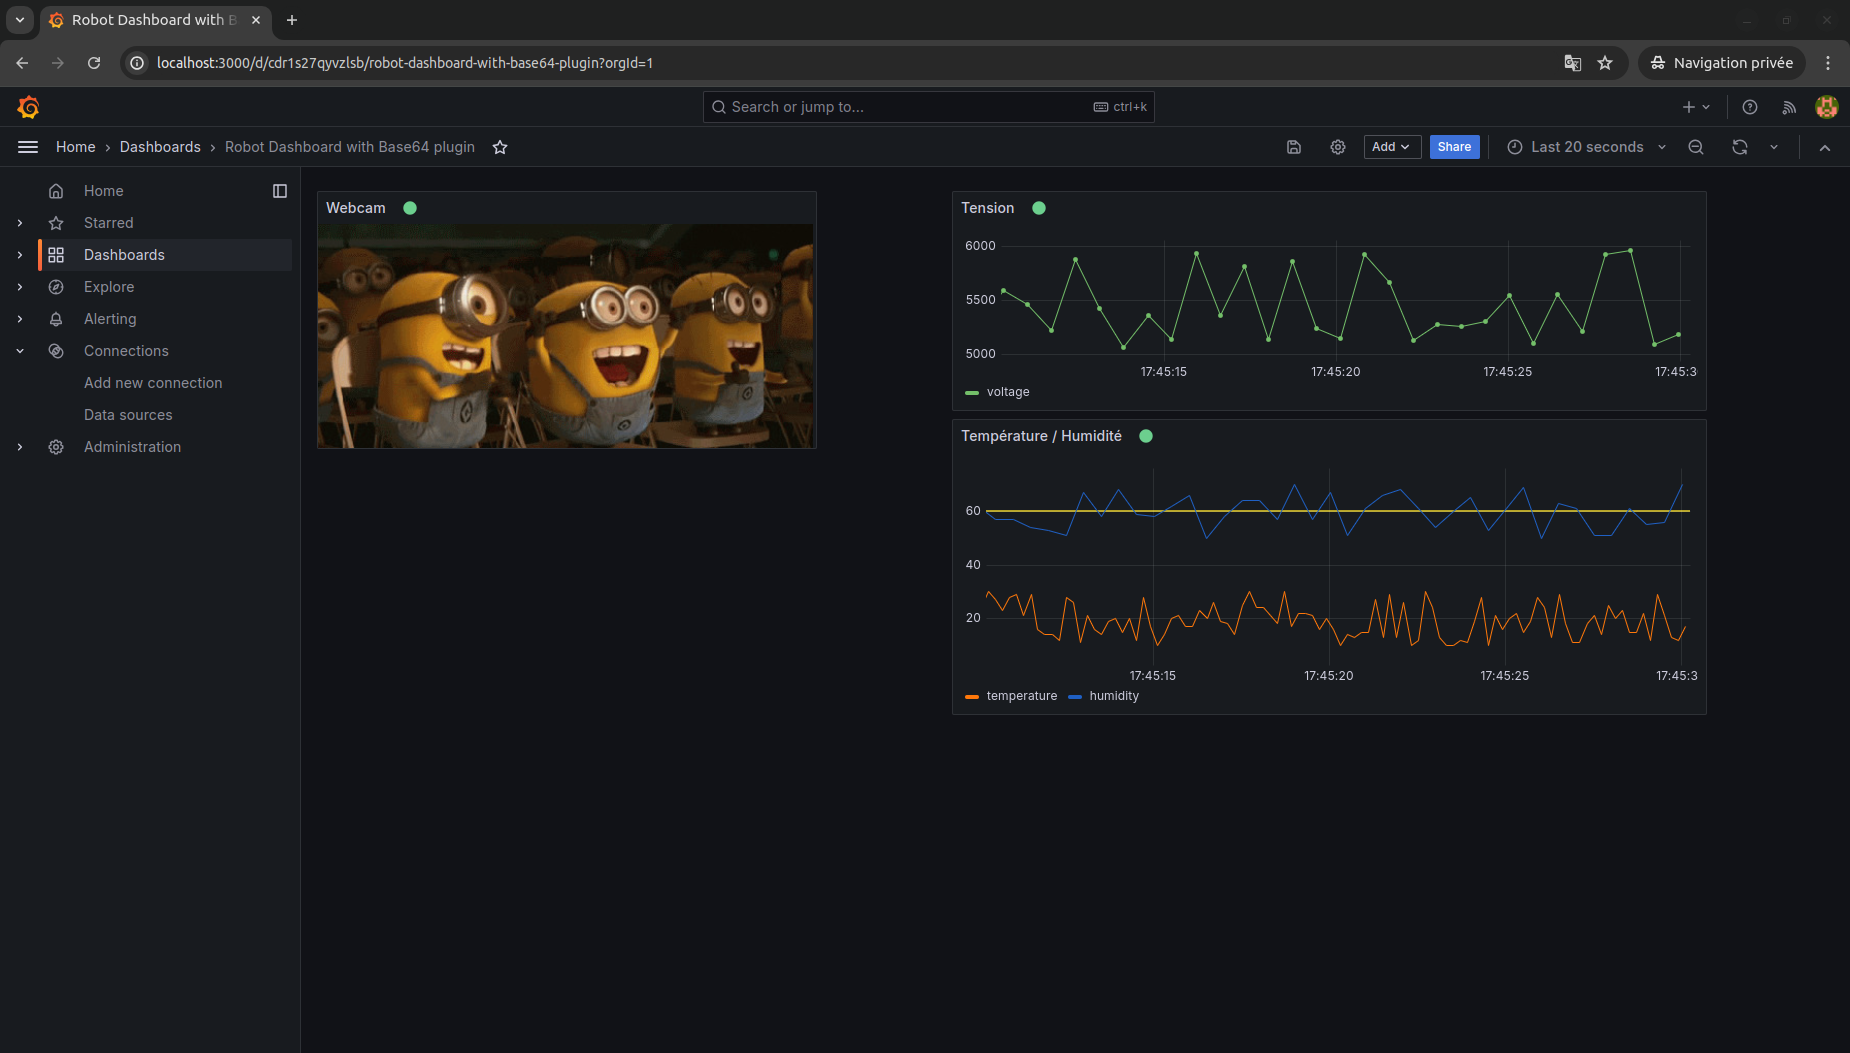
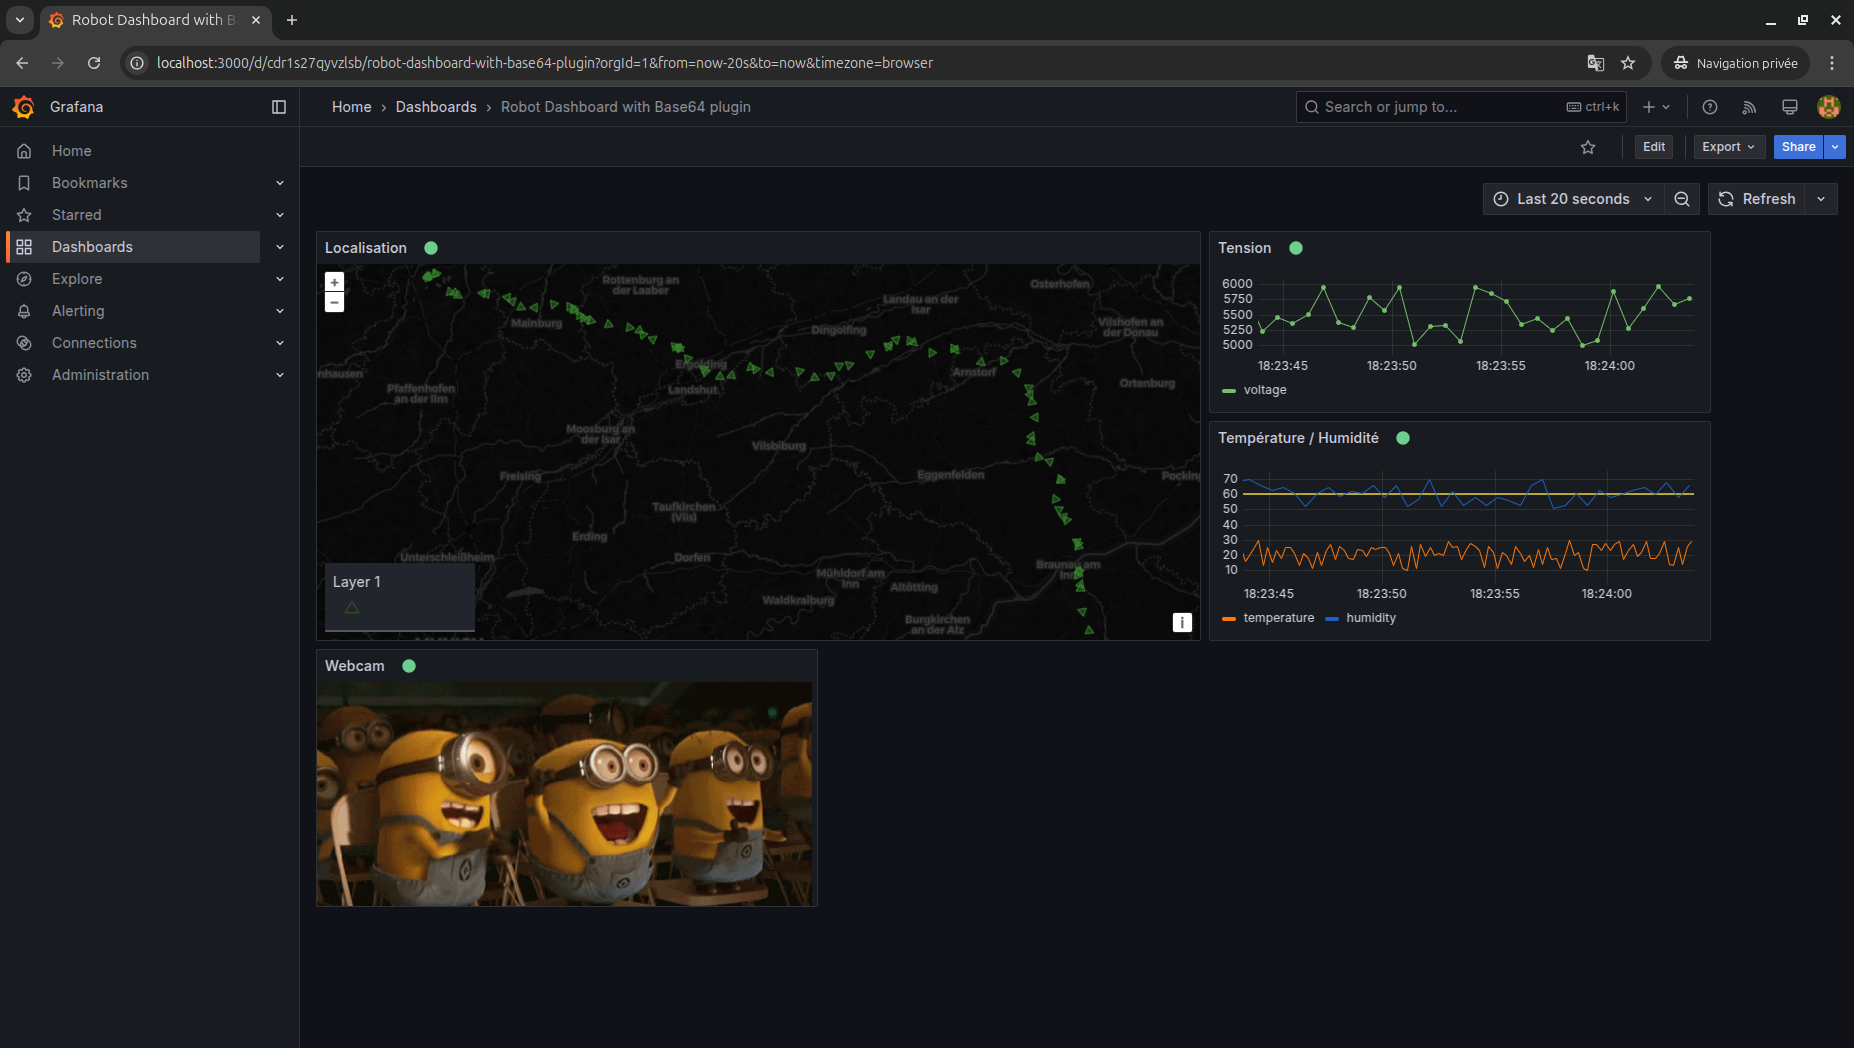
Ajout d'une visualisation Geomap pour test de localisation du robot

diff --git a/src/main/java/org/example/testmqttgrafana/MqttMessageScheduler.java b/src/main/java/org/example/testmqttgrafana/MqttMessageScheduler.java
@@ -20,7 +20,23 @@ public class MqttMessageScheduler {
 
 	private final MqttPublisherService mqttPublisherService;
 
+	// Coordonnées de départ (exemple : Paris)
+	private static final double BASE_LATITUDE = 48.8566;
+	private static final double BASE_LONGITUDE = 2.3522;
+
+	// Paramètres de déplacement
+	private static final double MAX_SPEED_KMH = 5.0;  // Vitesse maximale en km/h
+	private static final double MAX_TURN_ANGLE = 45.0;  // Changement maximal de direction en degrés à chaque étape
+	private static final double TIME_STEP = 1.0;  // Durée d'une étape en heures
+
+	// Rayon de la Terre (en km) pour convertir la distance en latitude et longitude
+	private static final double EARTH_RADIUS_KM = 6371.0;
+
 	Random random = new Random();
+
+	double currentLatitude = BASE_LATITUDE;
+	double currentLongitude = BASE_LONGITUDE;
+	double currentHeading = random.nextDouble() * 360;
 
 	public MqttMessageScheduler(MqttPublisherService mqttPublisherService) {
 		this.mqttPublisherService = mqttPublisherService;
@@ -45,6 +61,35 @@ public class MqttMessageScheduler {
 		int voltage = random.nextInt(1000) + 5000;
 		String content = "{\"voltage\":" + voltage + "}";
 		mqttPublisherService.publish("voltage", content);
+	}
+
+	@Scheduled(fixedRate = 250)
+	public void sendPosition() {
+		int positionX = random.nextInt(10) + 10;
+		int positionY = random.nextInt(10) + 10;
+		String content = "{\"positionX\":" + positionX + ",\"positionY\":" + positionY + "}";
+		System.out.println(content);
+		mqttPublisherService.publish("position", content);
+	}
+
+	@Scheduled(fixedRate = 250)
+	public void sendPositionGps() {
+		double speed = random.nextDouble() * MAX_SPEED_KMH;  // Vitesse aléatoire entre 0 et MAX_SPEED_KMH
+		double distance = speed * TIME_STEP;  // Distance parcourue en km
+
+		// Calculer l'angle de direction pour cette étape (ajouter un léger changement)
+		currentHeading += random.nextDouble() * 2 * MAX_TURN_ANGLE - MAX_TURN_ANGLE;  // Modifier la direction
+
+		// Calculer la nouvelle latitude et longitude
+		double deltaLatitude = distance * Math.cos(Math.toRadians(currentHeading)) / EARTH_RADIUS_KM;
+		double deltaLongitude = distance * Math.sin(Math.toRadians(currentHeading)) / (EARTH_RADIUS_KM * Math.cos(Math.toRadians(currentLatitude)));
+
+		currentLatitude += Math.toDegrees(deltaLatitude);
+		currentLongitude += Math.toDegrees(deltaLongitude);
+		int angle = random.nextInt(360);
+		String content = "{\"lat\":" + currentLatitude + ",\"long\":" + currentLongitude + ",\"angle\":" + angle + "}";
+		System.out.println(content);
+		mqttPublisherService.publish("position_gps", content);
 	}
 
 	@Scheduled(fixedRate = 50)
